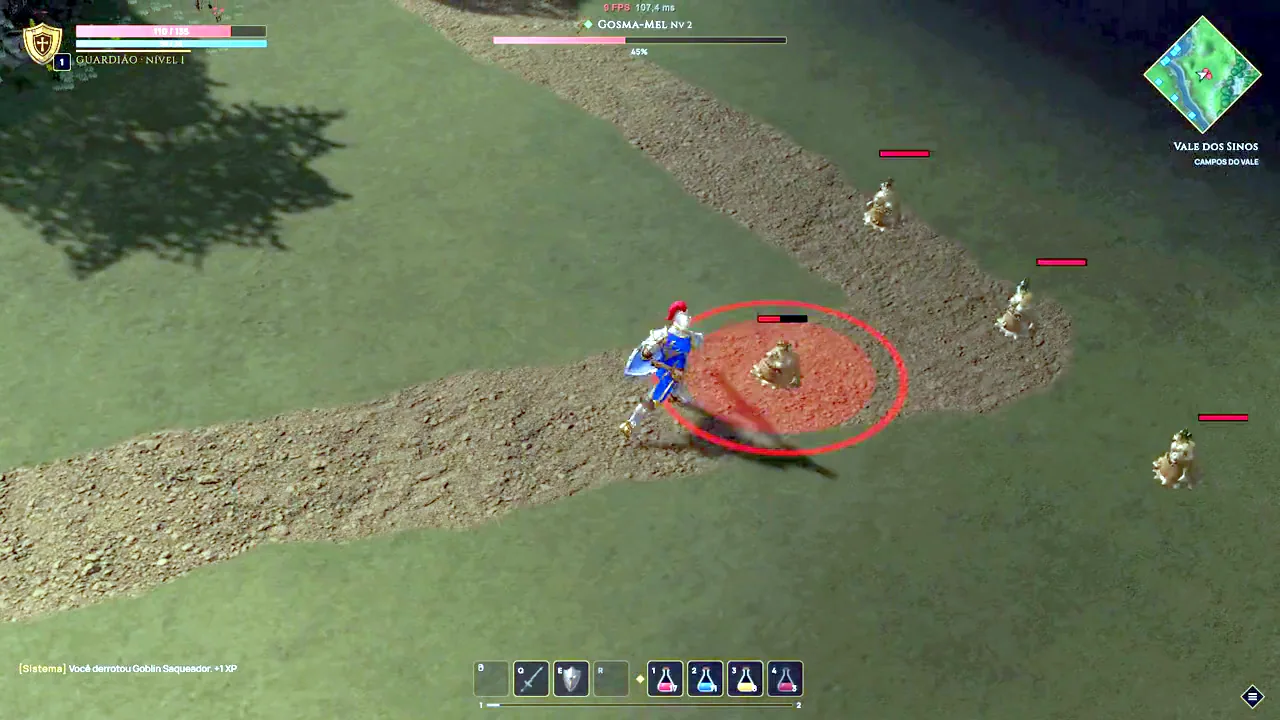
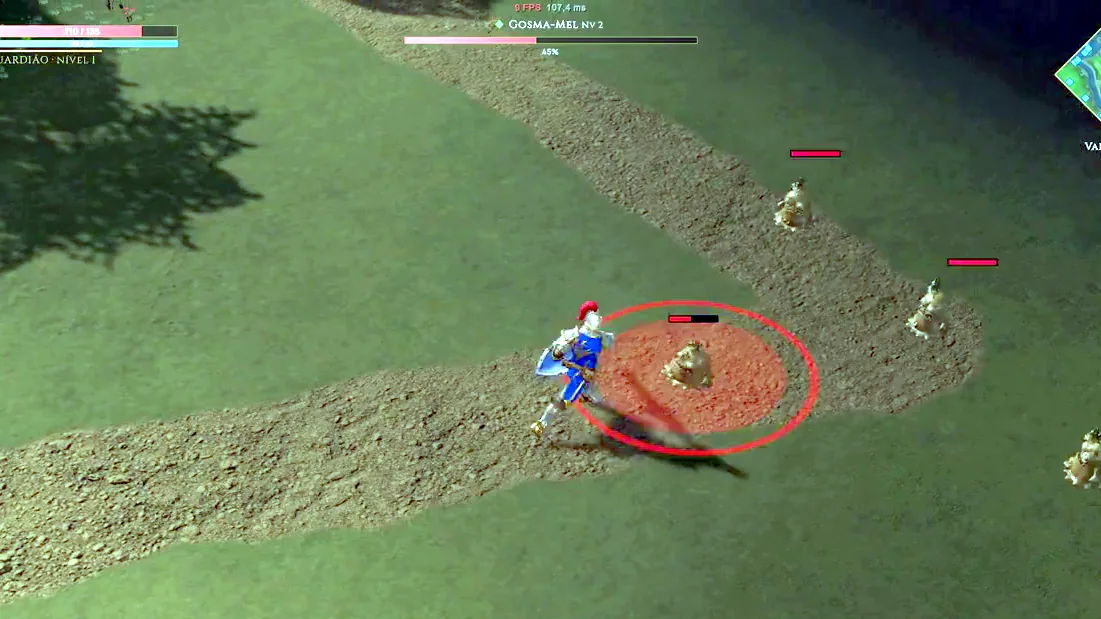
Site v2: vitrine do jogo

diff --git a/midia/index.html b/midia/index.html
@@ -12,7 +12,7 @@
 <header class="top"><a class="brand" href="../" aria-label="Ragna Tale, início"><svg viewBox="0 0 24 24" aria-hidden="true"><path d="M12 1 L19 9 L12 23 L5 9Z" fill="none" stroke="currentColor" stroke-width="1.4"/><path d="M5 9h14M12 1v22" stroke="currentColor" stroke-width=".8" opacity=".6"/></svg><b>Ragna<i>Tale</i></b></a>
 <button class="burger" aria-label="Abrir menu" aria-expanded="false"><span></span></button>
 <nav class="nav"><a href="../">Início</a><a href="../mundo/">Mundo</a><a href="../classes/">Classes</a><a href="../bestiario/">Bestiário</a><a href="../wiki/">Wiki</a><a href="../midia/" class=on>Mídia</a><a href="../producao/">Em construção</a><a class="cta" href="../jogar/">Jogar</a></nav></header>
-<main><section class="hero "><div class="hero-bg"><img class="" src="../img/key/midia.webp" alt="" width="1792" height="1024" fetchpriority="high"></div><div class="wrap hero-in"><p class="kicker">Mídia</p><h1>Imagens e vídeos</h1><p class="lead">Arte do mundo, as doze classes e capturas do build de desenvolvimento.</p></div></section><section class="sec dark" id="videos"><div class="wrap"><header class="sh"><p class="kicker">Vídeos</p><h2>O jogo em movimento</h2><p class="lead">Capturas do build pré-alfa. Tudo ainda vai mudar, e é para isso que serve um diário.</p></header><div class="vids"><figure class="vid"><div class="vid-box"><video muted loop playsinline preload="none" poster="../media/combate_vale_capa.webp"><source src="../media/combate_vale.webm" type="video/webm"><source src="../media/combate_vale.mp4" type="video/mp4"></video><button class="play" aria-label="Reproduzir: Combate no Vale"></button><i class="tag">Pré-alfa</i></div><figcaption><b>Combate no Vale</b><span>Guardião contra goblins: combo, golpe forte e bloqueio.</span></figcaption></figure><figure class="vid"><div class="vid-box"><video muted loop playsinline preload="none" poster="../media/caca_4_especies_capa.webp"><source src="../media/caca_4_especies.webm" type="video/webm"><source src="../media/caca_4_especies.mp4" type="video/mp4"></video><button class="play" aria-label="Reproduzir: Caça no Vale das Flores-Sino"></button><i class="tag">Pré-alfa</i></div><figcaption><b>Caça no Vale das Flores-Sino</b><span>Uma volta pelo campo passando por quatro espécies.</span></figcaption></figure><figure class="vid"><div class="vid-box"><video muted loop playsinline preload="none" poster="../media/caminhada_vale_capa.webp"><source src="../media/caminhada_vale.webm" type="video/webm"><source src="../media/caminhada_vale.mp4" type="video/mp4"></video><button class="play" aria-label="Reproduzir: Chegada ao Vale"></button><i class="tag">Pré-alfa</i></div><figcaption><b>Chegada ao Vale</b><span>Da porteira ao primeiro ponto de caça.</span></figcaption></figure></div></div></section><section class="sec "><div class="wrap"><header class="sh"><p class="kicker">Arte</p><h2>Ilustrações</h2></header><div class="gal two"><a class="zoom g" href="../img/midia/arte-0.webp" data-cap="O norte que ninguém aponta"><img class="" src="../img/midia/arte-0-s.webp" alt="O norte que ninguém aponta" width="900" height="514" loading="lazy" decoding="async"><span>O norte que ninguém aponta</span></a><a class="zoom g" href="../img/midia/arte-1.webp" data-cap="Onde o cristal brota"><img class="" src="../img/midia/arte-1-s.webp" alt="Onde o cristal brota" width="900" height="514" loading="lazy" decoding="async"><span>Onde o cristal brota</span></a><a class="zoom g" href="../img/midia/arte-2.webp" data-cap="O salão das três tribos"><img class="" src="../img/midia/arte-2-s.webp" alt="O salão das três tribos" width="900" height="514" loading="lazy" decoding="async"><span>O salão das três tribos</span></a><a class="zoom g" href="../img/midia/arte-3.webp" data-cap="A oficina de Ermândia"><img class="" src="../img/midia/arte-3-s.webp" alt="A oficina de Ermândia" width="900" height="514" loading="lazy" decoding="async"><span>A oficina de Ermândia</span></a></div></div></section><section class="sec dark"><div class="wrap"><header class="sh"><p class="kicker">Arte</p><h2>As doze classes</h2></header><div class="gal chars"><a class="zoom g tall" href="../img/classes/guardiao.webp" data-cap="Guardião"><img class="" src="../img/classes/guardiao.webp" alt="Guardião" width="721" height="1100" loading="lazy" decoding="async"><span>Guardião</span></a><a class="zoom g tall" href="../img/classes/sombra.webp" data-cap="Sombra"><img class="" src="../img/classes/sombra.webp" alt="Sombra" width="868" height="1100" loading="lazy" decoding="async"><span>Sombra</span></a><a class="zoom g tall" href="../img/classes/cacador.webp" data-cap="Caçador"><img class="" src="../img/classes/cacador.webp" alt="Caçador" width="513" height="1100" loading="lazy" decoding="async"><span>Caçador</span></a><a class="zoom g tall" href="../img/classes/oraculo.webp" data-cap="Oráculo"><img class="" src="../img/classes/oraculo.webp" alt="Oráculo" width="635" height="1100" loading="lazy" decoding="async"><span>Oráculo</span></a><a class="zoom g tall" href="../img/classes/barbaro.webp" data-cap="Bárbaro"><img class="" src="../img/classes/barbaro.webp" alt="Bárbaro" width="559" height="999" loading="lazy" decoding="async"><span>Bárbaro</span></a><a class="zoom g tall" href="../img/classes/mago.webp" data-cap="Mago"><img class="" src="../img/classes/mago.webp" alt="Mago" width="764" height="1100" loading="lazy" decoding="async"><span>Mago</span></a><a class="zoom g tall" href="../img/classes/gladiador.webp" data-cap="Gladiador"><img class="" src="../img/classes/gladiador.webp" alt="Gladiador" width="604" height="1100" loading="lazy" decoding="async"><span>Gladiador</span></a><a class="zoom g tall" href="../img/classes/metamorfo.webp" data-cap="Metamorfo"><img class="" src="../img/classes/metamorfo.webp" alt="Metamorfo" width="699" height="1100" loading="lazy" decoding="async"><span>Metamorfo</span></a><a class="zoom g tall" href="../img/classes/empalador.webp" data-cap="Empalador"><img class="" src="../img/classes/empalador.webp" alt="Empalador" width="676" height="1100" loading="lazy" decoding="async"><span>Empalador</span></a><a class="zoom g tall" href="../img/classes/engenheiro.webp" data-cap="Engenheiro"><img class="" src="../img/classes/engenheiro.webp" alt="Engenheiro" width="559" height="1100" loading="lazy" decoding="async"><span>Engenheiro</span></a><a class="zoom g tall" href="../img/classes/necromante.webp" data-cap="Necromante"><img class="" src="../img/classes/necromante.webp" alt="Necromante" width="431" height="1100" loading="lazy" decoding="async"><span>Necromante</span></a><a class="zoom g tall" href="../img/classes/carrasco.webp" data-cap="Carrasco"><img class="" src="../img/classes/carrasco.webp" alt="Carrasco" width="529" height="1100" loading="lazy" decoding="async"><span>Carrasco</span></a></div></div></section><section class="sec "><div class="wrap"><header class="sh"><p class="kicker">Capturas</p><h2>Dentro do jogo</h2><p class="lead">Telas do build de desenvolvimento.</p></header><div class="gal two"><a class="zoom g" href="../img/midia/borda_grama_DEPOIS_camera_baixa-v5.webp" data-cap="Trilha do Vale das Flores-Sino"><img class="" src="../img/midia/borda_grama_DEPOIS_camera_baixa-v5s.webp" alt="Trilha do Vale das Flores-Sino" width="720" height="378" loading="lazy" decoding="async"><span>Trilha do Vale das Flores-Sino</span></a><a class="zoom g" href="../img/midia/antes_p2_205_32_baixa-v5.webp" data-cap="Margem do rio no Vale"><img class="" src="../img/midia/antes_p2_205_32_baixa-v5s.webp" alt="Margem do rio no Vale" width="720" height="405" loading="lazy" decoding="async"><span>Margem do rio no Vale</span></a><a class="zoom g" href="../img/midia/a_aba_aberta-v5.webp" data-cap="Inventário: livro de abas"><img class="" src="../img/midia/a_aba_aberta-v5s.webp" alt="Inventário: livro de abas" width="720" height="405" loading="lazy" decoding="async"><span>Inventário: livro de abas</span></a><a class="zoom g" href="../img/midia/c2_troca_na_arma_dourado-v5.webp" data-cap="Troca de arma no inventário"><img class="" src="../img/midia/c2_troca_na_arma_dourado-v5s.webp" alt="Troca de arma no inventário" width="720" height="405" loading="lazy" decoding="async"><span>Troca de arma no inventário</span></a></div></div></section></main>
+<main><section class="hero "><div class="hero-bg"><img class="" src="../img/key/midia.webp" alt="" width="1792" height="1024" fetchpriority="high"></div><div class="wrap hero-in"><p class="kicker">Mídia</p><h1>Imagens e vídeos</h1><p class="lead">Arte do mundo, as doze classes e capturas do build de desenvolvimento.</p></div></section><section class="sec dark" id="videos"><div class="wrap"><header class="sh"><p class="kicker">Vídeos</p><h2>O jogo em movimento</h2><p class="lead">Capturas do build pré-alfa. Tudo ainda vai mudar, e é para isso que serve um diário.</p></header><div class="vids"><figure class="vid"><div class="vid-box"><video muted loop playsinline preload="none" poster="../media/combate_vale_capa.webp"><source src="../media/combate_vale.webm" type="video/webm"><source src="../media/combate_vale.mp4" type="video/mp4"></video><button class="play" aria-label="Reproduzir: Combate no Vale"></button><i class="tag">Pré-alfa</i></div><figcaption><b>Combate no Vale</b><span>Guardião contra goblins: combo, golpe forte e bloqueio.</span></figcaption></figure><figure class="vid"><div class="vid-box"><video muted loop playsinline preload="none" poster="../media/caca_4_especies_capa.webp"><source src="../media/caca_4_especies.webm" type="video/webm"><source src="../media/caca_4_especies.mp4" type="video/mp4"></video><button class="play" aria-label="Reproduzir: Caça no Vale das Flores-Sino"></button><i class="tag">Pré-alfa</i></div><figcaption><b>Caça no Vale das Flores-Sino</b><span>Uma volta pelo campo passando por quatro espécies.</span></figcaption></figure><figure class="vid"><div class="vid-box"><video muted loop playsinline preload="none" poster="../media/caminhada_vale_capa.webp"><source src="../media/caminhada_vale.webm" type="video/webm"><source src="../media/caminhada_vale.mp4" type="video/mp4"></video><button class="play" aria-label="Reproduzir: Chegada ao Vale"></button><i class="tag">Pré-alfa</i></div><figcaption><b>Chegada ao Vale</b><span>Da porteira ao primeiro ponto de caça.</span></figcaption></figure></div></div></section><section class="sec "><div class="wrap"><header class="sh"><p class="kicker">Arte</p><h2>Ilustrações</h2></header><div class="gal two"><a class="zoom g" href="../img/midia/arte-0.webp" data-cap="O norte que ninguém aponta"><img class="" src="../img/midia/arte-0-s.webp" alt="O norte que ninguém aponta" width="900" height="514" loading="lazy" decoding="async"><span>O norte que ninguém aponta</span></a><a class="zoom g" href="../img/midia/arte-1.webp" data-cap="Onde o cristal brota"><img class="" src="../img/midia/arte-1-s.webp" alt="Onde o cristal brota" width="900" height="514" loading="lazy" decoding="async"><span>Onde o cristal brota</span></a><a class="zoom g" href="../img/midia/arte-2.webp" data-cap="O salão das três tribos"><img class="" src="../img/midia/arte-2-s.webp" alt="O salão das três tribos" width="900" height="514" loading="lazy" decoding="async"><span>O salão das três tribos</span></a><a class="zoom g" href="../img/midia/arte-3.webp" data-cap="A oficina de Ermândia"><img class="" src="../img/midia/arte-3-s.webp" alt="A oficina de Ermândia" width="900" height="514" loading="lazy" decoding="async"><span>A oficina de Ermândia</span></a></div></div></section><section class="sec dark"><div class="wrap"><header class="sh"><p class="kicker">Arte</p><h2>As doze classes</h2></header><div class="gal chars"><a class="zoom g tall" href="../img/classes/guardiao.webp" data-cap="Guardião"><img class="" src="../img/classes/guardiao.webp" alt="Guardião" width="721" height="1100" loading="lazy" decoding="async"><span>Guardião</span></a><a class="zoom g tall" href="../img/classes/sombra.webp" data-cap="Sombra"><img class="" src="../img/classes/sombra.webp" alt="Sombra" width="868" height="1100" loading="lazy" decoding="async"><span>Sombra</span></a><a class="zoom g tall" href="../img/classes/cacador.webp" data-cap="Caçador"><img class="" src="../img/classes/cacador.webp" alt="Caçador" width="513" height="1100" loading="lazy" decoding="async"><span>Caçador</span></a><a class="zoom g tall" href="../img/classes/oraculo.webp" data-cap="Oráculo"><img class="" src="../img/classes/oraculo.webp" alt="Oráculo" width="635" height="1100" loading="lazy" decoding="async"><span>Oráculo</span></a><a class="zoom g tall" href="../img/classes/barbaro.webp" data-cap="Bárbaro"><img class="" src="../img/classes/barbaro.webp" alt="Bárbaro" width="559" height="999" loading="lazy" decoding="async"><span>Bárbaro</span></a><a class="zoom g tall" href="../img/classes/mago.webp" data-cap="Mago"><img class="" src="../img/classes/mago.webp" alt="Mago" width="764" height="1100" loading="lazy" decoding="async"><span>Mago</span></a><a class="zoom g tall" href="../img/classes/gladiador.webp" data-cap="Gladiador"><img class="" src="../img/classes/gladiador.webp" alt="Gladiador" width="604" height="1100" loading="lazy" decoding="async"><span>Gladiador</span></a><a class="zoom g tall" href="../img/classes/metamorfo.webp" data-cap="Metamorfo"><img class="" src="../img/classes/metamorfo.webp" alt="Metamorfo" width="699" height="1100" loading="lazy" decoding="async"><span>Metamorfo</span></a><a class="zoom g tall" href="../img/classes/empalador.webp" data-cap="Empalador"><img class="" src="../img/classes/empalador.webp" alt="Empalador" width="676" height="1100" loading="lazy" decoding="async"><span>Empalador</span></a><a class="zoom g tall" href="../img/classes/engenheiro.webp" data-cap="Engenheiro"><img class="" src="../img/classes/engenheiro.webp" alt="Engenheiro" width="559" height="1100" loading="lazy" decoding="async"><span>Engenheiro</span></a><a class="zoom g tall" href="../img/classes/necromante.webp" data-cap="Necromante"><img class="" src="../img/classes/necromante.webp" alt="Necromante" width="431" height="1100" loading="lazy" decoding="async"><span>Necromante</span></a><a class="zoom g tall" href="../img/classes/carrasco.webp" data-cap="Carrasco"><img class="" src="../img/classes/carrasco.webp" alt="Carrasco" width="529" height="1100" loading="lazy" decoding="async"><span>Carrasco</span></a></div></div></section><section class="sec "><div class="wrap"><header class="sh"><p class="kicker">Capturas</p><h2>Dentro do jogo</h2><p class="lead">Telas do build de desenvolvimento.</p></header><div class="gal two"><a class="zoom g" href="../img/midia/antes_p1_182_18_baixa-v5.webp" data-cap="Guardião na trilha do Vale"><img class="" src="../img/midia/antes_p1_182_18_baixa-v5s.webp" alt="Guardião na trilha do Vale" width="720" height="405" loading="lazy" decoding="async"><span>Guardião na trilha do Vale</span></a><a class="zoom g" href="../img/midia/antes_p2_205_32_baixa-v5.webp" data-cap="Margem do rio no Vale"><img class="" src="../img/midia/antes_p2_205_32_baixa-v5s.webp" alt="Margem do rio no Vale" width="720" height="405" loading="lazy" decoding="async"><span>Margem do rio no Vale</span></a><a class="zoom g" href="../img/midia/a_aba_aberta-v5.webp" data-cap="Inventário: livro de abas"><img class="" src="../img/midia/a_aba_aberta-v5s.webp" alt="Inventário: livro de abas" width="720" height="405" loading="lazy" decoding="async"><span>Inventário: livro de abas</span></a><a class="zoom g" href="../img/midia/c2_troca_na_arma_dourado-v5.webp" data-cap="Troca de arma no inventário"><img class="" src="../img/midia/c2_troca_na_arma_dourado-v5s.webp" alt="Troca de arma no inventário" width="720" height="405" loading="lazy" decoding="async"><span>Troca de arma no inventário</span></a></div></div></section></main>
 <footer class="foot"><div class="wrap"><div class="f-brand"><b>Ragna<i>Tale</i></b><p>RPG de ação online em Ermândia. Jogo em desenvolvimento; Ragna Tale é nome de trabalho e tudo aqui pode mudar.</p></div>
 <nav><a href="../">Início</a><a href="../mundo/">Mundo</a><a href="../classes/">Classes</a><a href="../bestiario/">Bestiário</a><a href="../wiki/">Wiki</a><a href="../midia/" class=on>Mídia</a><a href="../producao/">Em construção</a><a href="../jogar/">Jogar</a></nav><p class="f-legal">© 2026 Ragna Tale. Arte e textos de produção, sem versão final.</p></div></footer>
 <div class="lb" hidden><button class="lb-x" aria-label="Fechar">×</button><figure><img alt=""><figcaption></figcaption></figure></div>

diff --git a/producao/index.html b/producao/index.html
@@ -12,7 +12,7 @@
 <header class="top"><a class="brand" href="../" aria-label="Ragna Tale, início"><svg viewBox="0 0 24 24" aria-hidden="true"><path d="M12 1 L19 9 L12 23 L5 9Z" fill="none" stroke="currentColor" stroke-width="1.4"/><path d="M5 9h14M12 1v22" stroke="currentColor" stroke-width=".8" opacity=".6"/></svg><b>Ragna<i>Tale</i></b></a>
 <button class="burger" aria-label="Abrir menu" aria-expanded="false"><span></span></button>
 <nav class="nav"><a href="../">Início</a><a href="../mundo/">Mundo</a><a href="../classes/">Classes</a><a href="../bestiario/">Bestiário</a><a href="../wiki/">Wiki</a><a href="../midia/">Mídia</a><a href="../producao/" class=on>Em construção</a><a class="cta" href="../jogar/">Jogar</a></nav></header>
-<main><section class="hero "><div class="hero-bg"><img class="" src="../img/key/producao.webp" alt="" width="1792" height="1024" fetchpriority="high"></div><div class="wrap hero-in"><p class="kicker">Em construção</p><h1>Diário de produção</h1><p class="lead">O Ragna Tale está sendo erguido agora, sino a sino. Aqui fica o que está na forja, o que já entrou no jogo e o que vem depois.</p></div></section><section class="sec "><div class="wrap"><header class="sh"><p class="kicker">Agora</p><h2>Na forja</h2></header><div class="now"><article><img class="" src="../img/prod/now0.webp" alt="O Bárbaro ganha corpo" width="358" height="640" loading="lazy" decoding="async"><div><i class="chip">Personagens</i><h3>O Bárbaro ganha corpo</h3><p>O primeiro herói a sair do desenho para o jogo: modelo 3D, movimentos e os golpes de machado.</p></div></article><article><img class="" src="../img/prod/now1.webp" alt="A história de Ermândia" width="640" height="366" loading="lazy" decoding="async"><div><i class="chip">Narrativa</i><h3>A história de Ermândia</h3><p>A queda do reino e a história das doze classes agora formam um fio só.</p></div></article><article><img class="" src="../img/prod/now2.webp" alt="Ponte-Torta" width="640" height="357" loading="lazy" decoding="async"><div><i class="chip">Mundo</i><h3>Ponte-Torta</h3><p>A segunda vila do jogo está saindo da planta para o terreno.</p></div></article><article><img class="" src="../img/prod/now3.webp" alt="Itens, cartas e cenas" width="640" height="640" loading="lazy" decoding="async"><div><i class="chip">Arte</i><h3>Itens, cartas e cenas</h3><p>Poções, materiais, cartas de monstro e ilustrações da história estão sendo pintados.</p></div></article></div></div></section><section class="sec dark"><div class="wrap"><header class="sh"><p class="kicker">Linha do tempo</p><h2>Do que já existe ao que vem</h2></header><div class="cols2"><div class="col done"><h3>Já está no jogo</h3><ul><li>Combate com sequência de três golpes por classe</li><li>Vale das Flores-Sino jogável, com quatro espécies e o chefe Rei Gorjal</li><li>Livro de abas: personagem, inventário, habilidades e mapa</li><li>Tela de personagem com o herói em 3D</li><li>Minimapa e troca rápida de mapa e classe</li><li>Launcher que instala e atualiza o jogo sozinho</li><li>Jogo online desde o primeiro dia, com as regras rodando no servidor</li></ul></div><div class="col next"><h3>Próximos passos</h3><ul><li>As 12 classes em 3D, uma por vez</li><li>Sinos-portal e bandos do Vale</li><li>Pouso do Sino jogável</li><li>Ciclo de dia e noite</li><li>50 heróis na mesma tela</li><li>Download público do launcher</li></ul></div></div></div></section><section class="soon-sec"><div class="wrap"><p class="soon"><i class="dot"></i><b>Quer ver rodando?</b><span>Os vídeos e as telas do build estão na Mídia.</span><a class="more" href="../midia/#videos">Abrir a Mídia →</a></p></div></section><section class="sec dark" id="audio"><div class="wrap"><header class="sh"><p class="kicker">Áudio</p><h2>Os sons de Ermândia</h2><p class="lead">Efeitos em produção. Toque para ouvir.</p></header><div class="snds"><article class="snd wide"><i class="chip">Combate</i><img class="" src="../img/som/sword_hit_flesh.webp" alt="Espada acerta o alvo" width="800" height="457" loading="lazy" decoding="async"><div class="snd-b"><button class="snd-play" data-src="../media/sfx/sword_hit_flesh_01.ogg" aria-label="Ouvir: Espada acerta o alvo"></button><div><b>Espada acerta o alvo</b><span class="wave"><i></i></span></div></div></article><article class="snd"><i class="chip">Combate</i><img class="" src="../img/som/sword_swing.webp" alt="Espada no ar" width="800" height="457" loading="lazy" decoding="async"><div class="snd-b"><button class="snd-play" data-src="../media/sfx/sword_swing_01.ogg" aria-label="Ouvir: Espada no ar"></button><div><b>Espada no ar</b><span class="wave"><i></i></span></div></div></article><article class="snd"><i class="chip">Combate</i><img class="" src="../img/som/sword_hit_shield.webp" alt="Espada no escudo" width="800" height="457" loading="lazy" decoding="async"><div class="snd-b"><button class="snd-play" data-src="../media/sfx/sword_hit_shield_01.ogg" aria-label="Ouvir: Espada no escudo"></button><div><b>Espada no escudo</b><span class="wave"><i></i></span></div></div></article><article class="snd"><i class="chip">Combate</i><img class="" src="../img/som/hit_heavy.webp" alt="Golpe pesado" width="800" height="457" loading="lazy" decoding="async"><div class="snd-b"><button class="snd-play" data-src="../media/sfx/hit_heavy_01.ogg" aria-label="Ouvir: Golpe pesado"></button><div><b>Golpe pesado</b><span class="wave"><i></i></span></div></div></article><article class="snd"><i class="chip">Combate</i><img class="" src="../img/som/block.webp" alt="Bloqueio" width="800" height="457" loading="lazy" decoding="async"><div class="snd-b"><button class="snd-play" data-src="../media/sfx/block_01.ogg" aria-label="Ouvir: Bloqueio"></button><div><b>Bloqueio</b><span class="wave"><i></i></span></div></div></article><article class="snd"><i class="chip">Magia</i><img class="" src="../img/som/magic_fire.webp" alt="Magia de fogo" width="800" height="457" loading="lazy" decoding="async"><div class="snd-b"><button class="snd-play" data-src="../media/sfx/magic_fire_01.ogg" aria-label="Ouvir: Magia de fogo"></button><div><b>Magia de fogo</b><span class="wave"><i></i></span></div></div></article><article class="snd"><i class="chip">Magia</i><img class="" src="../img/som/magic_ice.webp" alt="Magia de gelo" width="800" height="457" loading="lazy" decoding="async"><div class="snd-b"><button class="snd-play" data-src="../media/sfx/magic_ice_01.ogg" aria-label="Ouvir: Magia de gelo"></button><div><b>Magia de gelo</b><span class="wave"><i></i></span></div></div></article></div></div></section><section class="sec " id="devlog"><div class="wrap"><header class="sh"><p class="kicker">Devlog</p><h2>Últimas novidades</h2></header><div class="news"><article><img class="" src="../img/prod/log0.webp" alt="Site novo no ar" width="640" height="366" loading="lazy" decoding="async"><div><time>25 nov 2026</time><h3>Site novo no ar</h3><p>O Ragna Tale ganhou uma vitrine: mundo, classes, bestiário e este diário.</p></div></article><article><img class="" src="../img/prod/log1.webp" alt="Doze classes, uma história" width="640" height="366" loading="lazy" decoding="async"><div><time>25 nov 2026</time><h3>Doze classes, uma história</h3><p>Cada classe agora carrega um pedaço do que aconteceu com o reino.</p></div></article><article><img class="" src="../img/prod/log2.webp" alt="Combate mais limpo" width="640" height="366" loading="lazy" decoding="async"><div><time>19 nov 2026</time><h3>Combate mais limpo</h3><p>Cada classe tem uma sequência de três golpes, e o herói encara o alvo o tempo todo.</p></div></article><article><img class="" src="../img/prod/log3.webp" alt="O Vale das Flores-Sino abre a porteira" width="640" height="336" loading="lazy" decoding="async"><div><time>18 nov 2026</time><h3>O Vale das Flores-Sino abre a porteira</h3><p>Quatro espécies, trilhas novas e um rei goblin esperando no fim do campo.</p></div></article></div></div></section></main>
+<main><section class="hero "><div class="hero-bg"><img class="" src="../img/key/producao.webp" alt="" width="1792" height="1024" fetchpriority="high"></div><div class="wrap hero-in"><p class="kicker">Em construção</p><h1>Diário de produção</h1><p class="lead">O Ragna Tale está sendo erguido agora, sino a sino. Aqui fica o que está na forja, o que já entrou no jogo e o que vem depois.</p></div></section><section class="sec "><div class="wrap"><header class="sh"><p class="kicker">Agora</p><h2>Na forja</h2></header><div class="now"><article><img class="" src="../img/prod/now0.webp" alt="O Bárbaro ganha corpo" width="358" height="640" loading="lazy" decoding="async"><div><i class="chip">Personagens</i><h3>O Bárbaro ganha corpo</h3><p>O primeiro herói a sair do desenho para o jogo: modelo 3D, movimentos e os golpes de machado.</p></div></article><article><img class="" src="../img/prod/now1.webp" alt="A história de Ermândia" width="640" height="366" loading="lazy" decoding="async"><div><i class="chip">Narrativa</i><h3>A história de Ermândia</h3><p>A queda do reino e a história das doze classes agora formam um fio só.</p></div></article><article><img class="" src="../img/prod/now2.webp" alt="Ponte-Torta" width="640" height="357" loading="lazy" decoding="async"><div><i class="chip">Mundo</i><h3>Ponte-Torta</h3><p>A segunda vila do jogo está saindo da planta para o terreno.</p></div></article><article><img class="" src="../img/prod/now3.webp" alt="Itens, cartas e cenas" width="640" height="640" loading="lazy" decoding="async"><div><i class="chip">Arte</i><h3>Itens, cartas e cenas</h3><p>Poções, materiais, cartas de monstro e ilustrações da história estão sendo pintados.</p></div></article></div></div></section><section class="sec dark"><div class="wrap"><header class="sh"><p class="kicker">Linha do tempo</p><h2>Do que já existe ao que vem</h2></header><div class="cols2"><div class="col done"><h3>Já está no jogo</h3><ul><li>Combate com sequência de três golpes por classe</li><li>Vale das Flores-Sino jogável, com quatro espécies e o chefe Rei Gorjal</li><li>Livro de abas: personagem, inventário, habilidades e mapa</li><li>Tela de personagem com o herói em 3D</li><li>Minimapa e troca rápida de mapa e classe</li><li>Launcher que instala e atualiza o jogo sozinho</li><li>Jogo online desde o primeiro dia, com as regras rodando no servidor</li></ul></div><div class="col next"><h3>Próximos passos</h3><ul><li>As 12 classes em 3D, uma por vez</li><li>Sinos-portal e bandos do Vale</li><li>Pouso do Sino jogável</li><li>Ciclo de dia e noite</li><li>50 heróis na mesma tela</li><li>Download público do launcher</li></ul></div></div></div></section><section class="soon-sec"><div class="wrap"><p class="soon"><i class="dot"></i><b>Quer ver rodando?</b><span>Os vídeos e as telas do build estão na Mídia.</span><a class="more" href="../midia/#videos">Abrir a Mídia →</a></p></div></section><section class="sec dark" id="audio"><div class="wrap"><header class="sh"><p class="kicker">Áudio</p><h2>Os sons de Ermândia</h2><p class="lead">Efeitos em produção. Toque para ouvir.</p></header><div class="snds"><article class="snd wide"><i class="chip">Combate</i><img class="" src="../img/som/sword_hit_flesh.webp" alt="Espada acerta o alvo" width="800" height="457" loading="lazy" decoding="async"><div class="snd-b"><button class="snd-play" data-src="../media/sfx/sword_hit_flesh_01.ogg" aria-label="Ouvir: Espada acerta o alvo"></button><div><b>Espada acerta o alvo</b><span class="wave"><i></i></span></div></div></article><article class="snd"><i class="chip">Combate</i><img class="" src="../img/som/sword_swing.webp" alt="Espada no ar" width="800" height="457" loading="lazy" decoding="async"><div class="snd-b"><button class="snd-play" data-src="../media/sfx/sword_swing_01.ogg" aria-label="Ouvir: Espada no ar"></button><div><b>Espada no ar</b><span class="wave"><i></i></span></div></div></article><article class="snd"><i class="chip">Combate</i><img class="" src="../img/som/sword_hit_shield.webp" alt="Espada no escudo" width="800" height="457" loading="lazy" decoding="async"><div class="snd-b"><button class="snd-play" data-src="../media/sfx/sword_hit_shield_01.ogg" aria-label="Ouvir: Espada no escudo"></button><div><b>Espada no escudo</b><span class="wave"><i></i></span></div></div></article><article class="snd"><i class="chip">Combate</i><img class="" src="../img/som/hit_heavy.webp" alt="Golpe pesado" width="800" height="457" loading="lazy" decoding="async"><div class="snd-b"><button class="snd-play" data-src="../media/sfx/hit_heavy_01.ogg" aria-label="Ouvir: Golpe pesado"></button><div><b>Golpe pesado</b><span class="wave"><i></i></span></div></div></article><article class="snd"><i class="chip">Combate</i><img class="" src="../img/som/block.webp" alt="Bloqueio" width="800" height="457" loading="lazy" decoding="async"><div class="snd-b"><button class="snd-play" data-src="../media/sfx/block_01.ogg" aria-label="Ouvir: Bloqueio"></button><div><b>Bloqueio</b><span class="wave"><i></i></span></div></div></article><article class="snd"><i class="chip">Magia</i><img class="" src="../img/som/magic_fire.webp" alt="Magia de fogo" width="800" height="457" loading="lazy" decoding="async"><div class="snd-b"><button class="snd-play" data-src="../media/sfx/magic_fire_01.ogg" aria-label="Ouvir: Magia de fogo"></button><div><b>Magia de fogo</b><span class="wave"><i></i></span></div></div></article><article class="snd"><i class="chip">Magia</i><img class="" src="../img/som/magic_ice.webp" alt="Magia de gelo" width="800" height="457" loading="lazy" decoding="async"><div class="snd-b"><button class="snd-play" data-src="../media/sfx/magic_ice_01.ogg" aria-label="Ouvir: Magia de gelo"></button><div><b>Magia de gelo</b><span class="wave"><i></i></span></div></div></article></div></div></section><section class="sec " id="devlog"><div class="wrap"><header class="sh"><p class="kicker">Devlog</p><h2>Últimas novidades</h2></header><div class="news"><article><img class="" src="../img/prod/log0.webp" alt="Site novo no ar" width="640" height="366" loading="lazy" decoding="async"><div><time>25 nov 2026</time><h3>Site novo no ar</h3><p>O Ragna Tale ganhou uma vitrine: mundo, classes, bestiário e este diário.</p></div></article><article><img class="" src="../img/prod/log1.webp" alt="Doze classes, uma história" width="640" height="366" loading="lazy" decoding="async"><div><time>25 nov 2026</time><h3>Doze classes, uma história</h3><p>Cada classe agora carrega um pedaço do que aconteceu com o reino.</p></div></article><article><img class="" src="../img/prod/log2.webp" alt="Combate mais limpo" width="640" height="366" loading="lazy" decoding="async"><div><time>19 nov 2026</time><h3>Combate mais limpo</h3><p>Cada classe tem uma sequência de três golpes, e o herói encara o alvo o tempo todo.</p></div></article><article><img class="" src="../img/prod/log3.webp" alt="O Vale das Flores-Sino abre a porteira" width="640" height="360" loading="lazy" decoding="async"><div><time>18 nov 2026</time><h3>O Vale das Flores-Sino abre a porteira</h3><p>Quatro espécies, trilhas novas e um rei goblin esperando no fim do campo.</p></div></article></div></div></section></main>
 <footer class="foot"><div class="wrap"><div class="f-brand"><b>Ragna<i>Tale</i></b><p>RPG de ação online em Ermândia. Jogo em desenvolvimento; Ragna Tale é nome de trabalho e tudo aqui pode mudar.</p></div>
 <nav><a href="../">Início</a><a href="../mundo/">Mundo</a><a href="../classes/">Classes</a><a href="../bestiario/">Bestiário</a><a href="../wiki/">Wiki</a><a href="../midia/">Mídia</a><a href="../producao/" class=on>Em construção</a><a href="../jogar/">Jogar</a></nav><p class="f-legal">© 2026 Ragna Tale. Arte e textos de produção, sem versão final.</p></div></footer>
 <div class="lb" hidden><button class="lb-x" aria-label="Fechar">×</button><figure><img alt=""><figcaption></figcaption></figure></div>

diff --git a/assets/v2.css b/assets/v2.css
@@ -228,3 +228,5 @@ background:linear-gradient(180deg,var(--gold2),var(--gold) 55%,#a3762c);border:1
 @media (max-width:860px){.t-cls span,.cb span,.tribe .t-cls span{font-size:12px}.g span{font:600 12px/1.2 var(--ff-b);text-transform:none;letter-spacing:0;padding:14px 4px 6px}.gal.two .g span{font-family:var(--ff-t);text-transform:uppercase}
 .lu b{font-size:12px;letter-spacing:.04em}.lu i{font-size:12px}.snd-b b{font-size:13px}.mon-t small,.mon-t small i{font-size:12px;letter-spacing:.04em}.wip span{font-size:12px}}/* v8 */
 /* v9 */
+.split{align-items:start}.split .frame{align-self:center}
+@media (max-width:860px){.nav{min-height:calc(100svh - 68px)}.nav .cta{display:none}}/* v10 */
